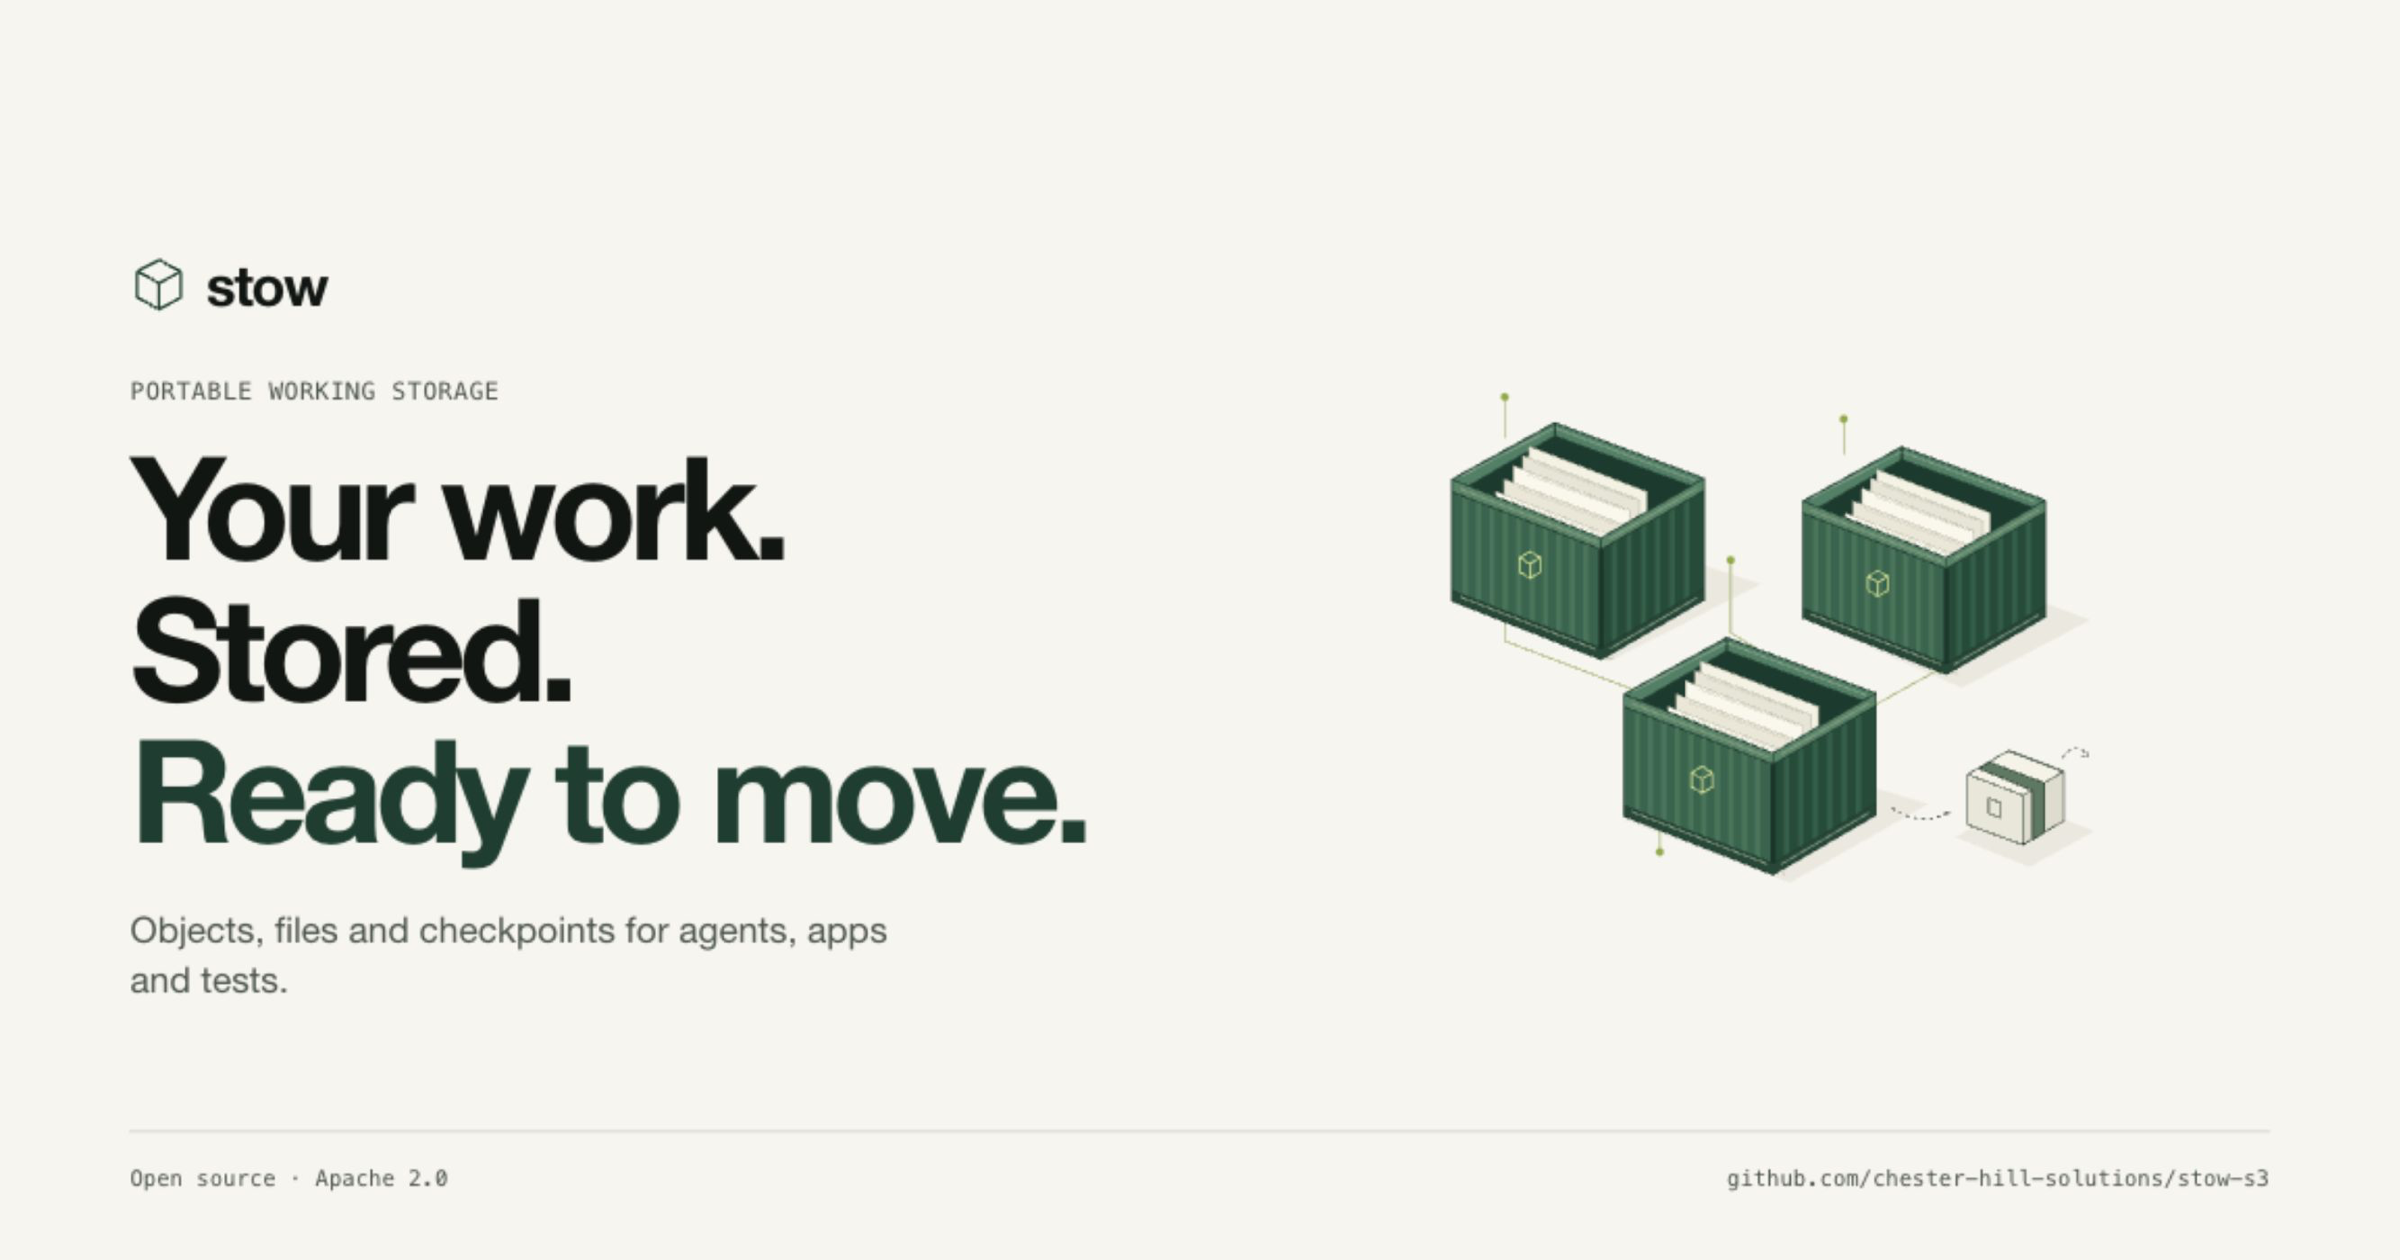
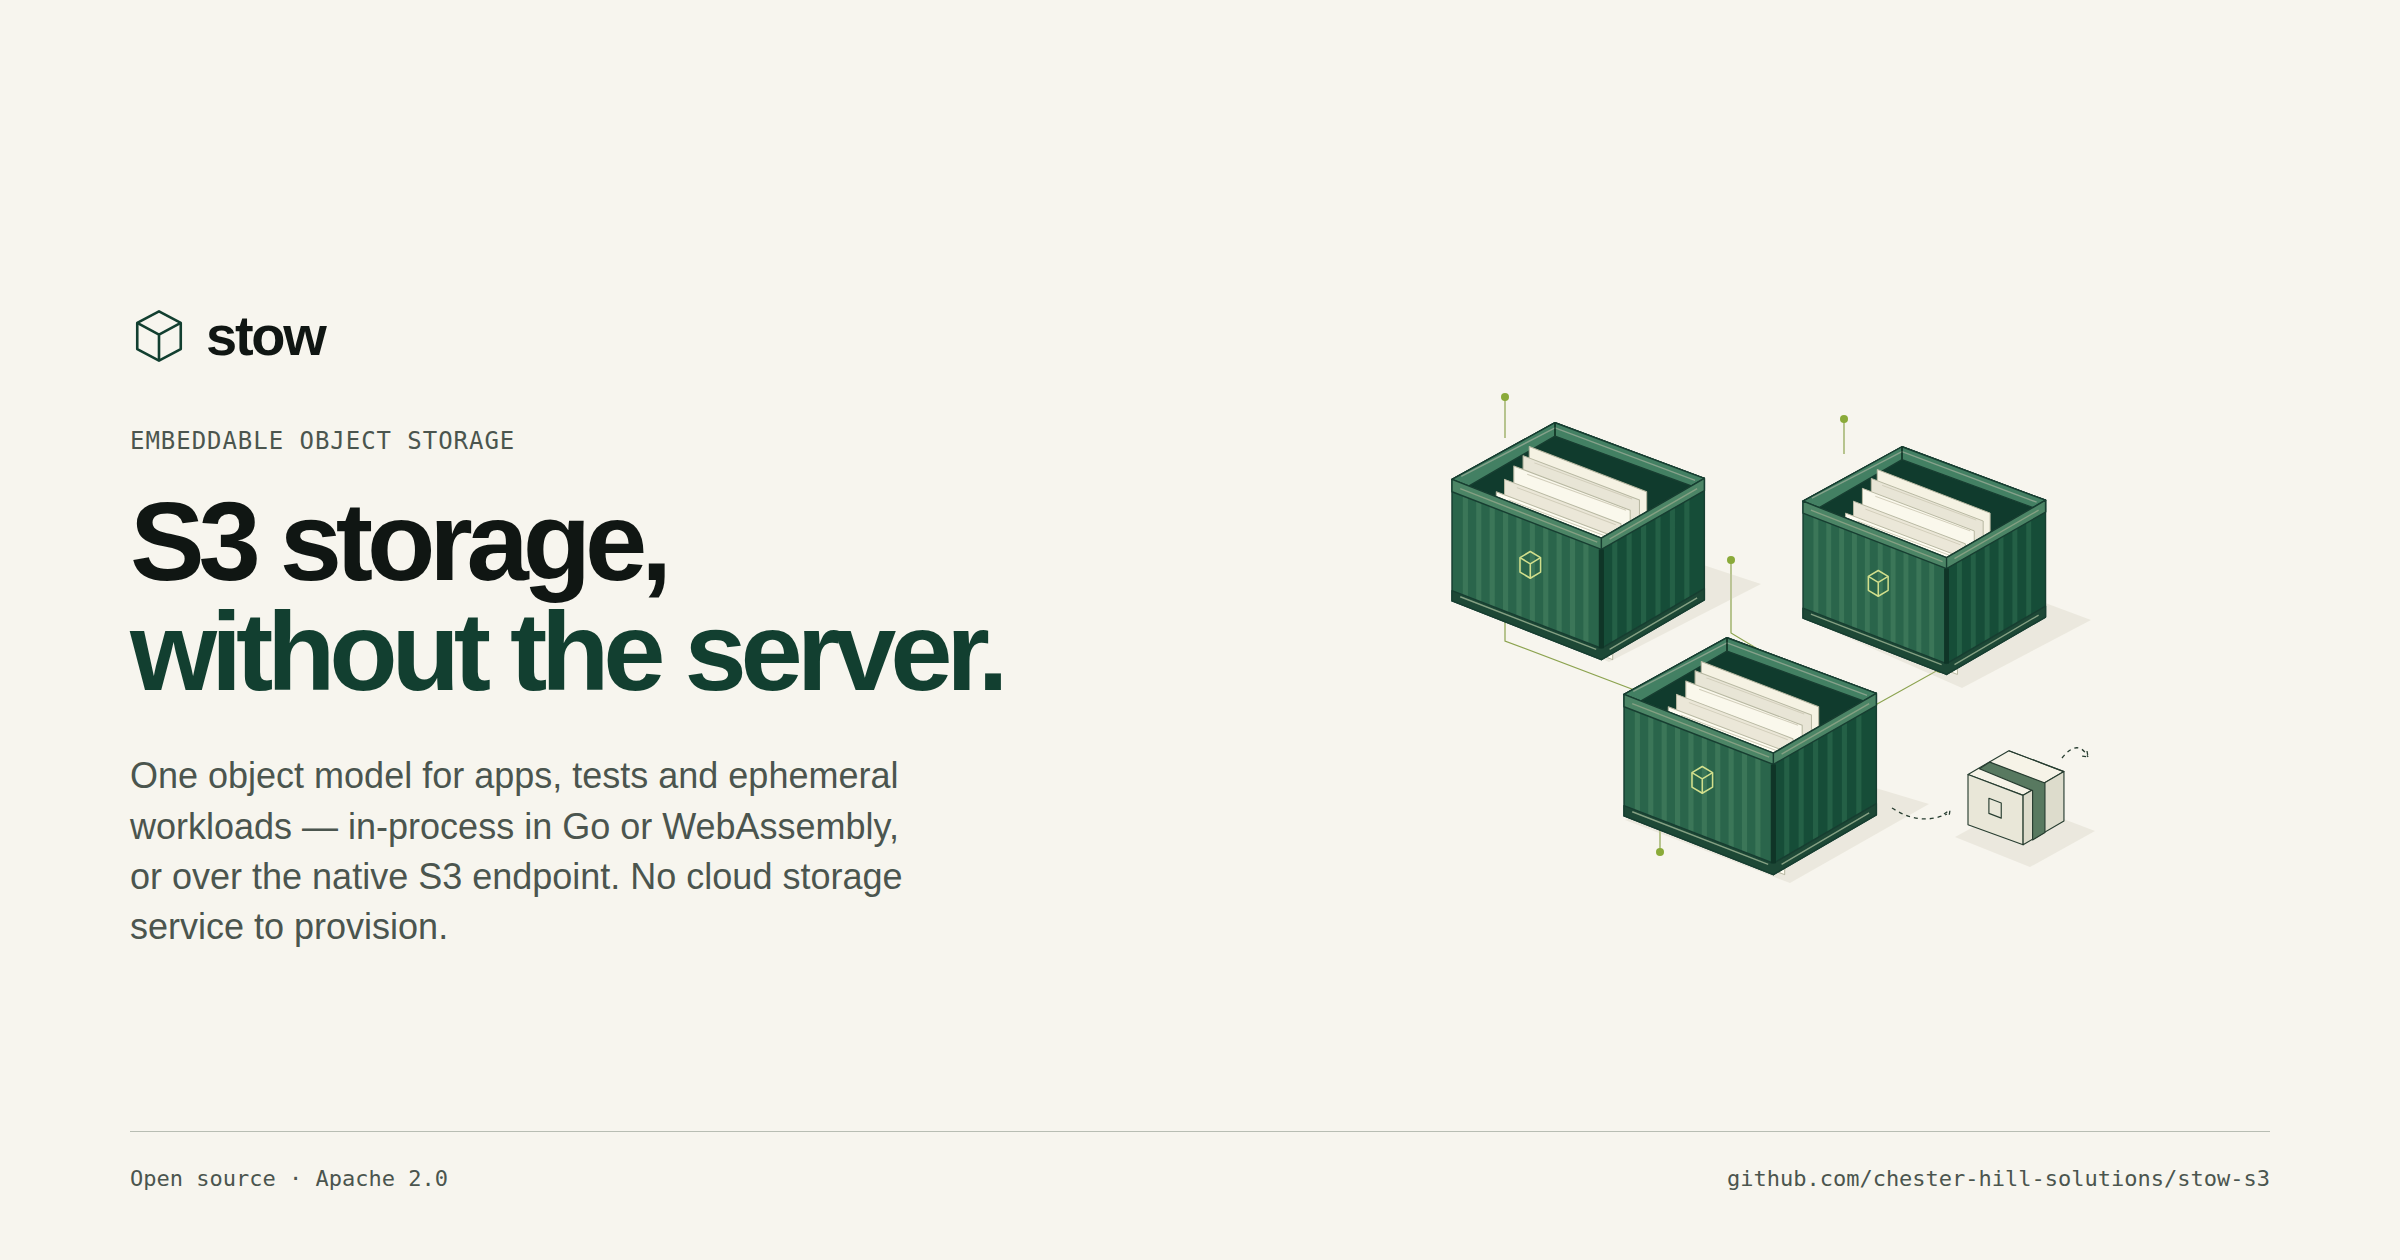
Reposition the homepage around embeddable object storage
Lead with the category instead of the vision. The hero reads "S3 storage,
without the server." and the capabilities, path, session and API copy
present checkpoints, workspaces and browser persistence as extensions of
the embedded object engine. Ephemeral workloads are named alongside
testing and agent scenarios at the process level (scoped sessions and the
embedded runtime), not as qualified edge or Workers deployment.

Retain "Your work. Stored. Ready to move." as the workspace section
heading. Update the title, description, Open Graph copy, LLM index and the
hero and social launch cards together, and re-render both PNGs.

Site claims, the site build tests, documentation links and the
install-surface check pass.

diff --git a/site/index.html b/site/index.html
@@ -3,16 +3,16 @@
 <head>
   <meta charset="utf-8" />
   <meta name="viewport" content="width=device-width, initial-scale=1" />
-  <title>Stow — portable working storage</title>
-  <meta name="description" content="Objects, files and checkpoints for agents, apps and tests. Local S3, portable workspaces, and embedded browser storage. Free and open source." />
+  <title>Stow — S3 storage, without the server</title>
+  <meta name="description" content="Embeddable object storage for applications, tests and ephemeral workloads. Call the object engine in-process from Go or WebAssembly, or start the native S3 endpoint. Portable checkpoints, workspaces and browser persistence included. Free and open source." />
   <link rel="canonical" href="https://stow.chesterhillsolutions.ca/" />
   <meta property="og:type" content="website" />
-  <meta property="og:title" content="Stow — Your work. Stored. Ready to move." />
-  <meta property="og:description" content="Portable working storage for agents, apps and tests. Start locally. Keep history. Take your work with you." />
+  <meta property="og:title" content="Stow — S3 storage, without the server." />
+  <meta property="og:description" content="Embeddable object storage for applications, tests and ephemeral workloads. Run the object engine in-process or over the native S3 endpoint. No cloud storage service to provision." />
   <meta property="og:image" content="https://stow.chesterhillsolutions.ca/images/og.png" />
   <meta property="og:image:width" content="1200" />
   <meta property="og:image:height" content="630" />
-  <meta property="og:image:alt" content="Stow: Your work. Stored. Ready to move. Illustrated storage containers with files and checkpoints." />
+  <meta property="og:image:alt" content="Stow: S3 storage, without the server. Illustrated storage containers holding objects, files and checkpoints." />
   <meta property="og:url" content="https://stow.chesterhillsolutions.ca/" />
   <meta name="twitter:card" content="summary_large_image" />
   <link rel="icon" href="/assets/favicon.svg?v=20261013" type="image/svg+xml" />
@@ -37,9 +37,9 @@
   <main id="main">
     <section class="hero container" aria-labelledby="hero-title">
       <div class="hero-copy">
-        <p class="eyebrow">Portable working storage</p>
-        <h1 id="hero-title"><span>Your work.</span> <span>Stored.</span> <span>Ready to move.</span></h1>
-        <p class="lede">Objects, files and checkpoints for agents, apps and tests. Start locally. Keep history. Take your work with you.</p>
+        <p class="eyebrow">Embeddable object storage</p>
+        <h1 id="hero-title"><span>S3 storage,</span> <span>without the server.</span></h1>
+        <p class="lede">One object model for applications, tests and ephemeral workloads: buckets, objects and conditional writes. Call it in-process from Go or WebAssembly, or over the native S3 endpoint when an ordinary SDK needs one. No cloud storage service to provision.</p>
         <div class="cta">
           <a class="btn btn-primary" href="/docs/getting-started/">Explore the docs <span aria-hidden="true">→</span></a>
           <a class="text-link" href="https://github.com/chester-hill-solutions/stow-s3">View source <span aria-hidden="true">↗</span></a>
@@ -55,13 +55,13 @@
       </figure>
     </section>
     <ul class="capabilities container" aria-label="At a glance">
-      <li>Local by default</li><li>S3-compatible APIs</li><li>Portable checkpoints</li><li>Apache 2.0</li>
+      <li>Embeddable, no server</li><li>S3-compatible endpoint</li><li>Portable checkpoints</li><li>Apache 2.0</li>
     </ul>
 
     <section class="paths container" id="problem" aria-labelledby="paths-title">
       <div class="section-intro">
-        <h2 id="paths-title">Three ways to stow.</h2>
-        <p>Choose the storage surface your application needs.</p>
+        <h2 id="paths-title">Three surfaces on one engine.</h2>
+        <p>The same buckets, objects and conditional writes — behind a native S3 endpoint, in agent workspaces, or in the browser.</p>
       </div>
       <div class="path-grid">
         <article class="path">
@@ -83,8 +83,8 @@
       <div class="session-inner container" id="use-cases">
         <div class="session-copy">
           <p class="eyebrow">Stow in practice</p>
-          <h2 id="session-title">See Stow in action.</h2>
-          <p>Four practical setups. Open a use case to try the offline demo or copy a storage fixture.</p>
+          <h2 id="session-title">A disposable bucket in one call.</h2>
+          <p>Four practical setups — tests and ephemeral workloads, cached reads, offline browser editing and disposable agent checkouts. Open one to try the offline demo or copy a storage fixture.</p>
           <p class="source-note">Build from source · TypeScript and Python preview · <a href="/docs/getting-started/">Source setup and first steps <span aria-hidden="true">↗</span></a></p>
         </div>
         <div class="use-case-accordion">
@@ -210,7 +210,7 @@ try {
         </div>
       </details>
       <details class="fixture use-case-panel" id="test-fixture" name="stow-use-cases" open>
-        <summary><span class="use-case-label">Development / CI</span><span class="use-case-title">Give every test its own bucket.</span></summary>
+        <summary><span class="use-case-label">Tests · ephemeral</span><span class="use-case-title">Give every test its own bucket.</span></summary>
         <div class="fixture-body">
           <div>
             <h3>Start → seed → assert → clean up</h3>
@@ -355,8 +355,8 @@ stow-s3 workspace destroy --id "$WORKSPACE_ID" \
 
     <section class="workspace container" id="workspace" aria-labelledby="workspace-title">
       <div>
-        <h2 id="workspace-title">Keep the checkpoint.<br />Carry the work.</h2>
-        <p>Immutable snapshots and verified portable archives let you move a workspace between machines.</p>
+        <h2 id="workspace-title">Your work.<br />Stored. Ready to move.</h2>
+        <p>Keep the checkpoint. Carry the work. Immutable snapshots and verified portable archives move a workspace between machines.</p>
         <a class="text-link" href="/docs/workspaces/">Explore workspaces <span aria-hidden="true">→</span></a>
       </div>
       <figure class="handoff" role="img" aria-label="Prepare files, capture an immutable checkpoint, and create a portable archive for handoff.">
@@ -366,10 +366,10 @@ stow-s3 workspace destroy --id "$WORKSPACE_ID" \
     </section>
 
     <section class="api-section container" id="surfaces" aria-labelledby="api-title">
-      <div class="api-heading"><h2 id="api-title">An API for where you work.</h2><a class="text-link" href="/docs/api/">All API references <span aria-hidden="true">↗</span></a></div>
+      <div class="api-heading"><h2 id="api-title">One object model, four ways in.</h2><a class="text-link" href="/docs/api/">All API references <span aria-hidden="true">↗</span></a></div>
       <dl class="api-list">
-        <div><dt>Native S3</dt><dd>Use familiar SDKs with memory or filesystem storage. Conditional requests, multipart uploads and presigned URLs.<br /><a class="text-link" href="/docs/s3-compatibility/">S3 compatibility <span aria-hidden="true">→</span></a></dd></div>
         <div><dt>Embedded Go + WASM</dt><dd>Call the object engine directly from Go, Node or a compatible WebAssembly host.<br /><a class="text-link" href="/docs/api/embedded/">Embedded API <span aria-hidden="true">→</span></a></dd></div>
+        <div><dt>Native S3</dt><dd>Use familiar SDKs with memory or filesystem storage. Conditional requests, multipart uploads and presigned URLs.<br /><a class="text-link" href="/docs/s3-compatibility/">S3 compatibility <span aria-hidden="true">→</span></a></dd></div>
         <div><dt>Browser projects + workers</dt><dd>Shared content, atomic revisions, range reads and bounded streams over durable browser storage.<br /><a class="text-link" href="/docs/browser-workers/">Workers and streams <span aria-hidden="true">→</span></a></dd></div>
         <div id="edge"><dt>S3 read-through cache</dt><dd>Fetch upstream objects, prewarm keys and use retained bytes offline. Select run-through explicitly.<br /><a class="text-link" href="/docs/run-through/">Cache guide <span aria-hidden="true">→</span></a></dd></div>
       </dl>

diff --git a/site/launch/card.css b/site/launch/card.css
@@ -32,7 +32,7 @@ h1 em { font-style: normal; color: var(--accent); }
 .perms .row + .row { margin-top: 14px; }
 .perms .mark { width: 28px; color: var(--accent); }
 .hero-card { display: grid; grid-template-columns: 1.1fr 1fr; gap: 40px; align-items: center; }
-.hero-card h1 { font-size: 144px; }
+.hero-card h1 { font-size: 112px; }
 .hero-card .hero-copy { align-self: center; }
 .hero-card .wordmark { margin-bottom: 60px; }
 .hero-card .sub { margin-top: 45px; font-size: 36px; max-width: 40ch; }
@@ -44,7 +44,7 @@ h1 em { font-style: normal; color: var(--accent); }
 .og .kicker { font-size: 12px; margin-bottom: 20px; }
 .og h1 { font-size: 76px; line-height: .98; }
 .og h1 span { display: block; }
-.og h1 span:last-child { font-size: .79em; white-space: nowrap; }
+.og h1 span:last-child { font-size: .79em; }
 .og .sub { font-size: 17px; line-height: 1.5; margin-top: 22px; max-width: 40ch; }
 .og .hero-illustration { display: block; width: 100%; }
 .og .foot { position: absolute; bottom: 25px; left: 56px; right: 56px; padding-top: 12px; font-size: 11px; }

diff --git a/site/launch/og.html b/site/launch/og.html
@@ -5,9 +5,9 @@
   <div class="og">
     <div>
       <div class="wordmark"><span class="box"></span><span>stow</span></div>
-      <p class="kicker">Portable working storage</p>
-      <h1><span>Your work.</span><span>Stored.</span><span>Ready to move.</span></h1>
-      <p class="sub">Objects, files and checkpoints for agents, apps and tests. Start locally. Keep history.</p>
+      <p class="kicker">Embeddable object storage</p>
+      <h1><span>S3 storage,</span><span>without the server.</span></h1>
+      <p class="sub">One object model for apps, tests and ephemeral workloads — in-process in Go or WebAssembly, or over the native S3 endpoint. No cloud storage service to provision.</p>
     </div>
     <img class="hero-illustration" src="../assets/storage-hero.svg" alt="" width="660" height="530" />
     <div class="foot"><span>Open source · Apache 2.0</span><span>chester-hill-solutions/stow-s3</span></div>

diff --git a/site/launch/01-hero.html b/site/launch/01-hero.html
@@ -5,9 +5,9 @@
   <div class="card hero-card">
     <div class="hero-copy">
       <div class="wordmark"><span class="box"></span><span>stow</span></div>
-      <p class="kicker">Portable working storage</p>
-      <h1>Your work.<br />Stored.<br /><em>Ready to move.</em></h1>
-      <p class="sub">Objects, files and checkpoints for agents, apps and tests.</p>
+      <p class="kicker">Embeddable object storage</p>
+      <h1>S3 storage,<br /><em>without the server.</em></h1>
+      <p class="sub">One object model for apps, tests and ephemeral workloads — in-process in Go or WebAssembly, or over the native S3 endpoint. No cloud storage service to provision.</p>
     </div>
     <img class="hero-illustration" src="../assets/storage-hero.svg" alt="" width="660" height="530" />
     <div class="foot"><span>Open source · Apache 2.0</span><span>github.com/chester-hill-solutions/stow-s3</span></div>

diff --git a/site/assets/stow.css b/site/assets/stow.css
@@ -6,7 +6,7 @@ h2 { margin-bottom: 1rem; font-size: clamp(2rem, 3.7vw, 3.4rem); line-height: 1.
 .hero-copy { position: relative; z-index: 1; }
 .hero h1 { margin: 0; font-size: clamp(4rem, 7.4vw, 6.75rem); line-height: .95; letter-spacing: -.065em; }
 .hero h1 span { display: block; }
-.hero h1 span:last-child { font-size: .79em; letter-spacing: -.06em; margin-top: .08em; white-space: nowrap; }
+.hero h1 span:last-child { font-size: .79em; letter-spacing: -.06em; margin-top: .08em; }
 .hero .lede { max-width: 43ch; margin: 1.7rem 0 1.9rem; font-size: clamp(1rem, 1.5vw, 1.2rem); line-height: 1.5; }
 .cta { display: flex; align-items: center; gap: 1.7rem; flex-wrap: wrap; }
 .cta .text-link { color: var(--text-1); }

diff --git a/site/redesign-plan.md b/site/redesign-plan.md
@@ -6,6 +6,8 @@ Implemented in the working tree on 2026-10-13: the homepage, shared documentatio
 
 Published on 2026-10-13 to [Stow](https://stow.chesterhillsolutions.ca/) as Cloudflare version `0eda14d0-605b-4ee3-844a-040a078a51e2`. The live homepage, documentation index, TypeScript API, theme, interaction script, hero illustration, social preview and agent index all return HTTP 200 and match the deployment bundle. Documentation source links use published revision `41d22d0728d5ffdb2e5fb2417958588a90bc7d5d`.
 
+Repositioned on 2026-10-14: the homepage now leads with the category rather than the vision. The hero reads "S3 storage, without the server." under the eyebrow "Embeddable object storage", and the capabilities, path, session and API copy present checkpoints, workspaces and browser persistence as extensions of the embedded object engine. Ephemeral workloads are named alongside testing and agent scenarios at the process level (scoped sessions and the embedded runtime), not as qualified edge or Workers deployment. The retained line "Your work. Stored. Ready to move." now heads the workspace section instead of the hero, so the headline row in the structure table above is superseded. The homepage metadata, the LLM index and the hero and social launch cards changed together; the visual design, section order and fragment targets are unchanged. See the note on the old headline below.
+
 This is a website design and implementation brief. Storage implementation and release status remain governed by the [consolidated storage plan](../docs/storage-foundation-plan.md), including W20 for publication and documentation gates. This brief adds no package capabilities or release claims.
 
 ## Design direction
